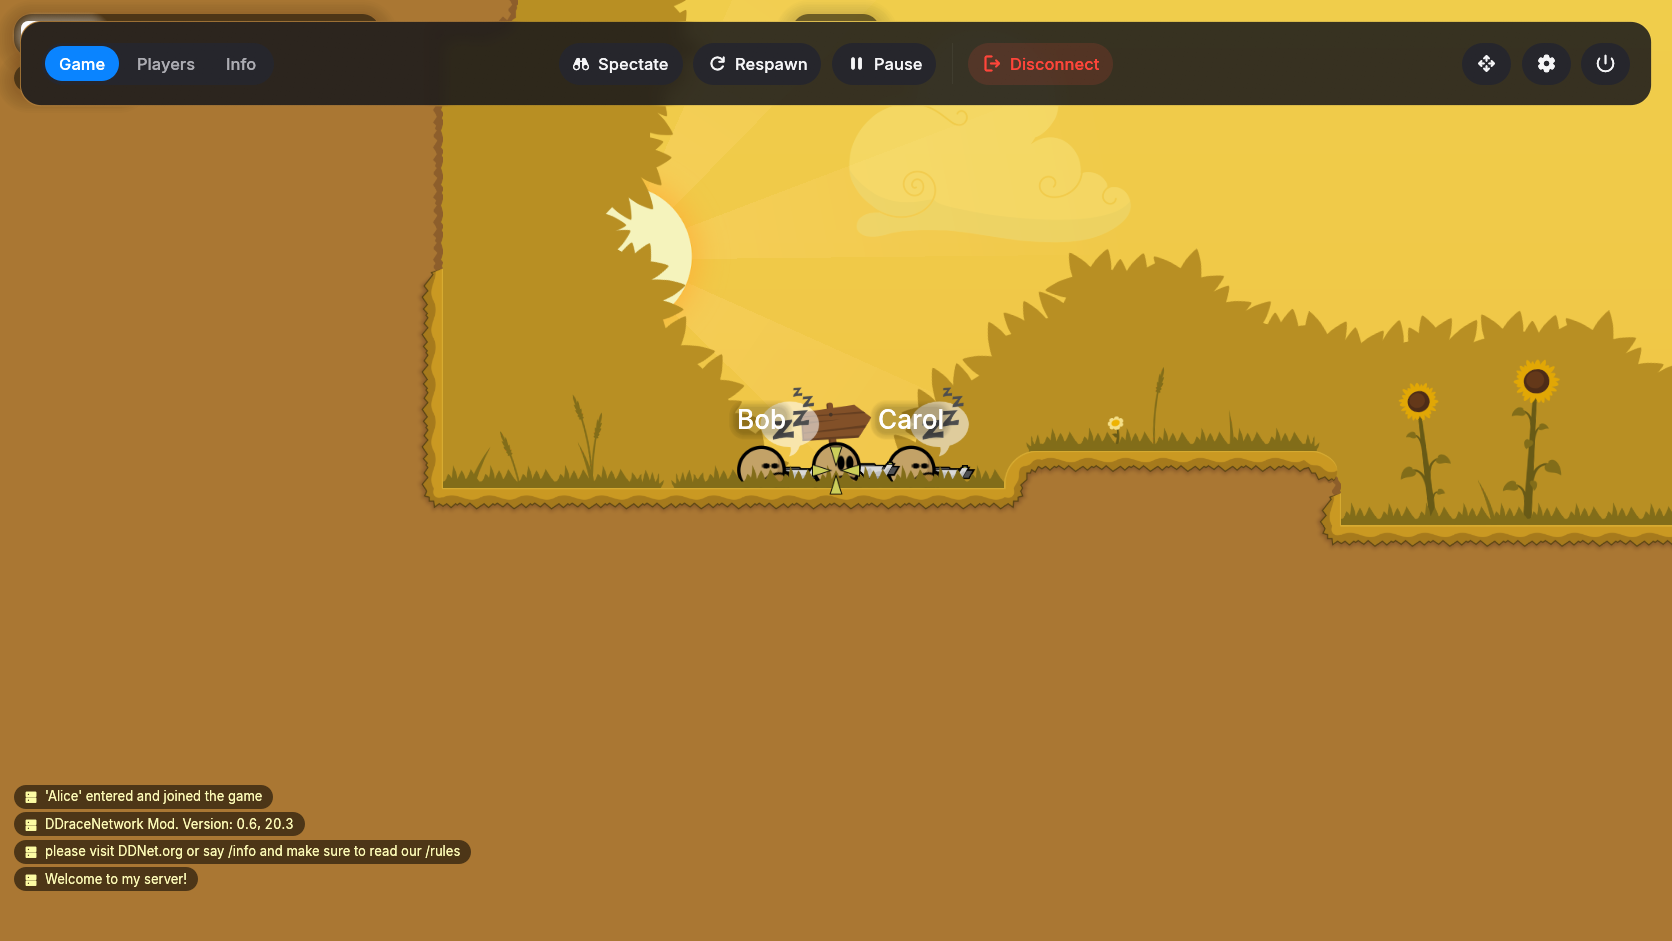
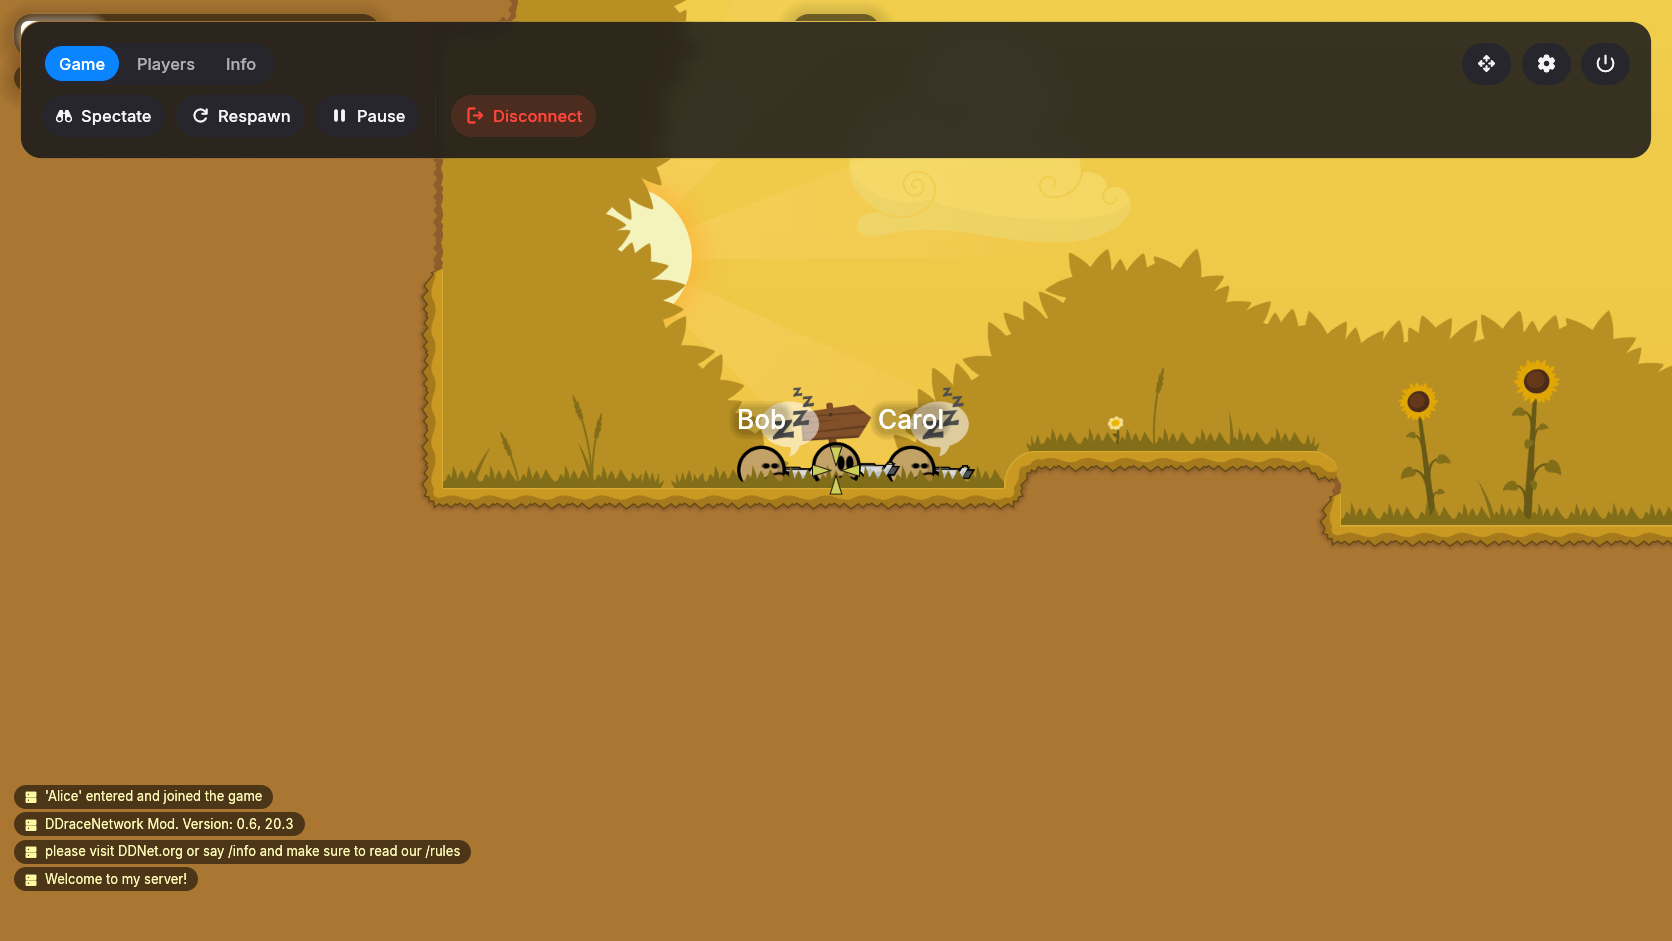
rust-client: Esc menu back to two rows like the concept (M9 13.5)
Row 1: tabs left, icon buttons right, so later tabs (Vote, Ghost, Browser) have
room. Row 2, Game tab only: the action pills. Tabs and actions never share a
row. Larger sizes, even padding and centred tab panels stay. Copy info is as
wide as its words. Review captures redone.

Changed region(s): [[0.0, 0.0308, 0.9952, 0.1849]]

diff --git a/rust-client/client/src/esc_menu.rs b/rust-client/client/src/esc_menu.rs
@@ -1,4 +1,4 @@
-//! The in-game menu (Esc, PLAN §13.5, C++ `menus_ingame.cpp`) in our design: a compact
+//! The in-game menu (Esc, PLAN §13.5, C++ `menus_ingame.cpp`) in our design: a
 //! bar across the top over the running game. Tabs as a segmented control, the Game tab's
 //! actions as pills, Disconnect apart in muted red, icon buttons on the right; the other
 //! tabs open a panel under the bar. Parts whose feature comes later stay hidden (Ghost
@@ -145,8 +145,6 @@ pub struct EscMenu {
     pub tab: usize,
     /// Disconnect asks first (C++ `PopupConfirm`).
     confirming: bool,
-    /// The Game tab's actions' width last frame, to centre them.
-    actions_width: f32,
 }
 
 /// What the bar shows.
@@ -286,8 +284,8 @@ impl EscMenu {
         self.confirming = false;
     }
 
-    /// The bar: tabs on the left, icon buttons on the right, the Game tab's actions
-    /// centred on the bar between them (on a row of their own when they do not fit).
+    /// The bar, as in the concept: row 1 tabs on the left and icon buttons on the right;
+    /// row 2 (Game tab only) the actions.
     fn bar(&mut self, ui: &mut Ui, v: &View) -> Option<Action> {
         let mut action = None;
         ui.spacing_mut().item_spacing = egui::vec2(space::M, space::M);
@@ -299,10 +297,10 @@ impl EscMenu {
         let ltr = Layout::left_to_right(Align::Center);
         // top-aligned: a Frame in a centred row lands its margin too low, and the
         // control is as tall as the row anyway
-        let (_, tabs) = row_in(ui, row, Layout::left_to_right(Align::Min), |ui| {
+        row_in(ui, row, Layout::left_to_right(Align::Min), |ui| {
             w::segmented_sized(ui, &mut self.tab, &TABS, size::TITLE, h);
         });
-        let (_, buttons) = row_in(ui, row, Layout::right_to_left(Align::Center), |ui| {
+        row_in(ui, row, Layout::right_to_left(Align::Center), |ui| {
             if round_button(ui, icons::POWER, "Quit").clicked() {
                 action = Some(Action::Quit);
             }
@@ -316,19 +314,9 @@ impl EscMenu {
         if self.tab != 0 {
             return action;
         }
-        // centred by last frame's width; a changed width draws the frame again
-        let aw = self.actions_width;
-        let mut at = row;
-        at.min.x = row.center().x - aw / 2.0;
-        if at.min.x < tabs.right() + space::XL || at.min.x + aw > buttons.left() - space::XL {
-            (at, _) = ui.allocate_exact_size(full, Sense::hover());
-            at.min.x = (at.center().x - aw / 2.0).max(at.left());
-        }
-        let (a, used) = row_in(ui, at, ltr, |ui| self.game_row(ui, v));
-        if (used.width() - aw).abs() > 0.5 {
-            self.actions_width = used.width();
-            ui.ctx().request_discard("esc menu actions re-centred");
-        }
+        // the actions get a row of their own: row 1 keeps room for more tabs
+        let (at, _) = ui.allocate_exact_size(full, Sense::hover());
+        let (a, _) = row_in(ui, at, ltr, |ui| self.game_row(ui, v));
         action.or(a)
     }
 
@@ -490,7 +478,8 @@ fn info(ui: &mut Ui, v: &View) {
         .fill(color::SURFACE_RAISED)
         .corner_radius(CornerRadius::same(radius::PILL))
         .min_size(egui::vec2(0.0, size::CONTROL_LARGE));
-        if ui.add(copy).clicked() {
+        // as wide as its words, not the (justified) column
+        if ui.horizontal(|ui| ui.add(copy)).inner.clicked() {
             ui.ctx().copy_text(format!(
                 "{}\nAddress: ddnet://{}\nMy IGN: {}\n",
                 s.name, v.address, v.player_name

diff --git a/rust-client/docs/PROGRESS.md b/rust-client/docs/PROGRESS.md
@@ -1402,9 +1402,12 @@ Sound works, asset pack switching works in the running client.
   screen). Players: tee (40 pt), name and clan columns, toggles aligned. Info: Server
   and Game as two equal columns of label/value rows, MOTD below. Insets 24 pt on all
   sides, 12 pt between controls and rows. Captures in `docs/review/13.5/` redone.
+- Second review (user, 2026-11-28): back to the concept's two rows. Row 1: tabs left,
+  icon buttons right (room for Vote, Ghost, Browser later). Row 2, Game tab only: the
+  action pills. Tabs and actions never share a row. Copy info no longer stretches.
 
 #### Exact next actions (next session starts here)
-State (2026-11-28): 13.5 layout rework done and pushed; stopped for the user's review
+State (2026-11-28): 13.5 two-row layout done and pushed; stopped for the user's review
 of `docs/review/13.5/`. Then 13.6 (dummy).
 Queued for the HUD polish (user, 2026-11-28; not now): an option to draw the race
 status's weapons in the pack's own colours instead of white silhouettes (thin custom-pack

diff --git a/rust-client/docs/PLAN.md b/rust-client/docs/PLAN.md
@@ -1169,9 +1169,8 @@ Players, Info, Browser, Ghost, Vote; icon buttons on the right (demos, editor,
 settings, quit). Row 2 (Game tab): pills with Material Rounded icons — Spectate,
 Respawn (`Cl_Kill`), Pause, Record demo, Dummy control — a divider, Disconnect in muted
 red. Other tabs open a
-rounded panel under the bar. Review 2026-11-28: no "Esc to close" hint; larger controls,
-one full-width row (tabs left, actions centred, icon buttons right), tab panels large and
-centred. Each pill shows the C++ label state (Pause ↔ Join game,
+rounded panel under the bar. Review 2026-11-28: no "Esc to close" hint; larger controls, the
+bar full width, tab panels large and centred. Tabs and actions never share a row. Each pill shows the C++ label state (Pause ↔ Join game,
 Record ↔ Stop record, Spectate ↔ Join game) and the C++ visibility rules.
 Tabs and pills whose feature lands in a later step stay hidden until then (Ghost → 13.8,
 Dummy → 13.6, Vote → 13.7); Browser stays hidden until M11 (§13.12 q4). The editor
